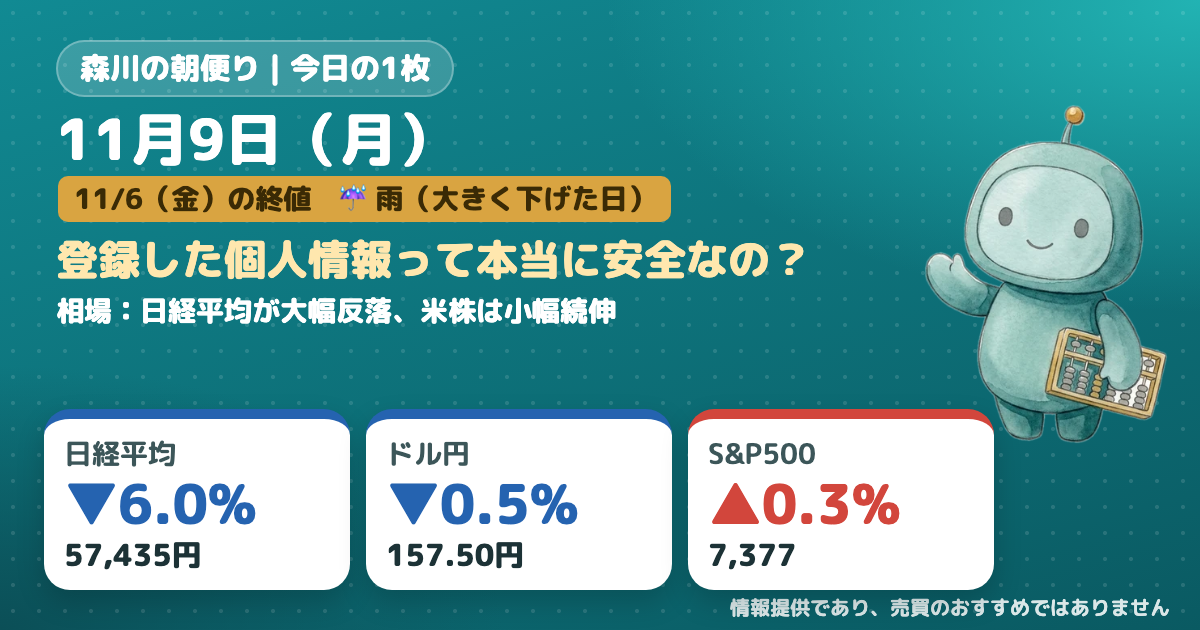
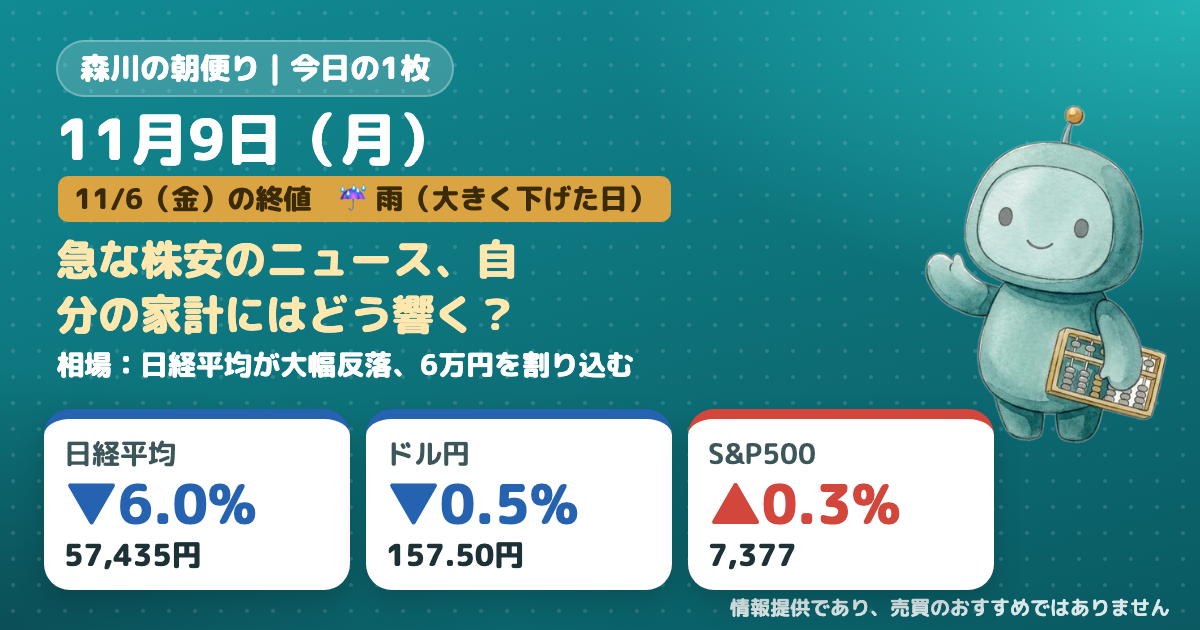
今日の1枚 1109

Changed region(s): [[0.0308, 0.3619, 0.6783, 0.6032]]

diff --git a/1109/index.html b/1109/index.html
@@ -1,4 +1,4 @@
-<!doctype html><html lang="ja"><head><meta charset="utf-8"><meta name="viewport" content="width=device-width,initial-scale=1"><title>森川の朝便り 11月9日（月）</title><meta property="og:title" content="森川の朝便り 11月9日（月）｜日経平均が大幅反落、米株は小幅続伸"><meta property="og:description" content="11/6（金）の終値と、今日のニュース・あわせて読みたい記事・用語をまとめました。ユメカネサロン"><meta property="og:image" content="https://mm738966m-boop.github.io/asa/1109/og.png"><meta property="og:image:width" content="1200"><meta property="og:image:height" content="630"><meta property="og:type" content="article"><meta name="twitter:card" content="summary_large_image"><meta name="robots" content="noindex"><link rel="preconnect" href="https://fonts.googleapis.com"><link rel="preconnect" href="https://fonts.gstatic.com" crossorigin><link href="https://fonts.googleapis.com/css2?family=M+PLUS+Rounded+1c:wght@500;700;800&family=Noto+Sans+JP:wght@500;700&display=swap" rel="stylesheet"><style>
+<!doctype html><html lang="ja"><head><meta charset="utf-8"><meta name="viewport" content="width=device-width,initial-scale=1"><title>森川の朝便り 11月9日（月）</title><meta property="og:title" content="森川の朝便り 11月9日（月）｜日経平均が大幅反落、6万円を割り込む"><meta property="og:description" content="11/6（金）の終値と、今日のニュース・あわせて読みたい記事・用語をまとめました。ユメカネサロン"><meta property="og:image" content="https://mm738966m-boop.github.io/asa/1109/og.png"><meta property="og:image:width" content="1200"><meta property="og:image:height" content="630"><meta property="og:type" content="article"><meta name="twitter:card" content="summary_large_image"><meta name="robots" content="noindex"><link rel="preconnect" href="https://fonts.googleapis.com"><link rel="preconnect" href="https://fonts.gstatic.com" crossorigin><link href="https://fonts.googleapis.com/css2?family=M+PLUS+Rounded+1c:wght@500;700;800&family=Noto+Sans+JP:wght@500;700&display=swap" rel="stylesheet"><style>
 :root{--teal:#0E7C86;--deep:#0A5A62;--ink:#1C3236;--ink2:#3C5659;--soft:#EEF6F7;--line:#D5E4E6;--gold:#A87A1F;--goldfill:#D9A441;--goldbg:#FBF4E3;--bg:#F3F8F8;--up:#D2463C;--upbg:#FDECEA;--down:#2563B0;--downbg:#E3EDF9}
 *{box-sizing:border-box}
 body{margin:0;background:var(--bg);color:var(--ink);font-family:"Noto Sans JP",system-ui,sans-serif;font-size:18px;font-weight:500;line-height:1.8}
@@ -95,7 +95,7 @@ h2:before{content:"";width:6px;height:22px;border-radius:3px;background:var(--go
 .light .lt{font-weight:700;font-size:18px;line-height:1.6;text-wrap:pretty}
 .light .lw{font-size:16px;color:var(--ink2);line-height:1.7}
 .light .more{background:#C9694A}
-</style></head><body><div class="wrap"><header class="hero"><span class="brand"><i></i>森川の朝便り｜今日の1枚</span><div class="date">11月9日（月）</div><div class="chips"><span class="basechip">11/6（金）の終値</span><span class="wx">☔ お天気：雨（大きく下げた日）</span></div><div class="head">日経平均が大幅反落、米株は小幅続伸</div><img class="robo" src="../img/mascot_base.webp" alt=""></header><section class="tiles"><div class="tile down" style="animation-delay:0.00s"><div class="tname">日経平均</div><div class="tval"><span class="num" data-to="57434.7695" data-dec="0">57,435</span><small>円</small></div><div class="pill down">▼6.0%</div><svg class="spark" viewBox="0 0 120 40" aria-hidden="true"><polygon points="3.0,40 3.0,12.3 15.7,14.6 28.3,9.5 41.0,6.3 53.7,3.0 66.3,9.4 79.0,10.4 91.7,14.6 104.3,19.9 117.0,37.0 117.0,40" fill="var(--down)" opacity=".12"/><polyline points="3.0,12.3 15.7,14.6 28.3,9.5 41.0,6.3 53.7,3.0 66.3,9.4 79.0,10.4 91.7,14.6 104.3,19.9 117.0,37.0" fill="none" stroke="var(--down)" stroke-width="2" stroke-linejoin="round" stroke-linecap="round" class="draw"/><circle cx="117.0" cy="37.0" r="3.2" fill="var(--down)"/></svg><div class="sl">直近10日</div></div><div class="tile down" style="animation-delay:0.08s"><div class="tname">ドル円</div><div class="tval"><span class="num" data-to="157.4980" data-dec="2">157.50</span><small>円</small></div><div class="pill down">▼0.5%</div><svg class="spark" viewBox="0 0 120 40" aria-hidden="true"><polygon points="3.0,40 3.0,37.0 15.7,22.5 28.3,12.9 41.0,16.2 53.7,16.8 66.3,19.4 79.0,14.5 91.7,3.0 104.3,5.3 117.0,23.1 117.0,40" fill="var(--down)" opacity=".12"/><polyline points="3.0,37.0 15.7,22.5 28.3,12.9 41.0,16.2 53.7,16.8 66.3,19.4 79.0,14.5 91.7,3.0 104.3,5.3 117.0,23.1" fill="none" stroke="var(--down)" stroke-width="2" stroke-linejoin="round" stroke-linecap="round" class="draw"/><circle cx="117.0" cy="23.1" r="3.2" fill="var(--down)"/></svg><div class="sl">直近10日</div></div><div class="tile up" style="animation-delay:0.16s"><div class="tname">S&amp;P500</div><div class="tval"><span class="num" data-to="7376.8599" data-dec="0">7,377</span><small></small></div><div class="pill up">▲0.3%</div><svg class="spark" viewBox="0 0 120 40" aria-hidden="true"><polygon points="3.0,40 3.0,8.9 15.7,4.9 28.3,3.0 41.0,5.1 53.7,17.3 66.3,20.6 79.0,18.3 91.7,7.8 104.3,37.0 117.0,35.0 117.0,40" fill="var(--up)" opacity=".12"/><polyline points="3.0,8.9 15.7,4.9 28.3,3.0 41.0,5.1 53.7,17.3 66.3,20.6 79.0,18.3 91.7,7.8 104.3,37.0 117.0,35.0" fill="none" stroke="var(--up)" stroke-width="2" stroke-linejoin="round" stroke-linecap="round" class="draw"/><circle cx="117.0" cy="35.0" r="3.2" fill="var(--up)"/></svg><div class="sl">直近10日</div></div></section><p class="howto">▼6.0%のような数字は「前の営業日の終値より何%動いたか」です。<br>赤の▲＝上がった、青の▼＝下がった。<br>S&amp;P500は米国株の代表的な指数です。</p><p class="note">相場は11/6（金）の終値。<br>情報提供であり、売買のおすすめではありません。</p><div class="ans" data-vote="20261104"><div class="ak">前回の「みんなの見立て」答え合わせ</div><div class="aa">11/4の日経平均は<span class="down">▼1.4%</span>で下がりました</div><div class="ac">タップしてくれた方、ありがとうございます。</div></div><div class="quiz" data-ymd="20261109"><span class="qk">みんなの見立て・1タップ</span><div class="qq">11/9（月）の日経平均、あなたの見立ては？</div><div class="qb"><button class="u" data-v="up">▲ 上がる</button><button class="d" data-v="down">▼ 下がる</button></div><div class="qr"><div class="bar u"><i></i><span><em>▲ 上がる</em><b></b></span></div><div class="bar d"><i></i><span><em>▼ 下がる</em><b></b></span></div><div class="qnote">みんながどう見ているかが分かります。答え合わせは次の「今日の1枚」で。</div></div></div><h2>お知らせ</h2><a class="osh" href="https://mm738966m-boop.github.io/fulfull-links/go/?d=20261109&amp;s=a-info&amp;to=https%3A%2F%2Fwww.youtube.com%2Fwatch%3Fv%3Dzg60wbSGYo4"><img src="https://i.ytimg.com/vi/zg60wbSGYo4/hqdefault.jpg" alt="" loading="lazy"><span class="ok">YouTubeを公開しました</span><span class="ot">小さな会社で、AIに任せている6つの仕事｜申込が3日止まった失敗と、真似できる頼み方【Claude Code 実録】</span><span class="ow">fulfullで実際にAIに任せている仕事を、うまくいかなかった話も含めて見せています。</span><span class="more">見てみる<b>→</b></span></a><div class="mine"><span class="av">森</span><div class="who">森川より｜今日読むなら</div><p>相場が荒れた日も、僕は積立の設定は触らない流儀です。気持ちが揺れやすい人は、下の記事で心の構え方を読んでみてください。</p></div><h2>今日のニュース</h2><a class="news" href="https://mm738966m-boop.github.io/fulfull-links/go/?d=20261109&amp;s=a-n1&amp;to=https%3A%2F%2Fnews.google.com%2Frss%2Farticles%2FCBMiaEFVX3lxTE5QLWNTX3hjUUlIQjFySE5tVU5qQ01ZYTN5a2tjMVBfS1hjc0h1UmFSMFJMeVhIcjBVOTJIc09qU0tMNTBQOUQ1cjhfOGkwdFNmcmdwR0pJNnRlR0puQ21MMnpaa0ZrTjBq%3Foc%3D5" style="animation-delay:0.28s"><span class="src">毎日新聞</span><span class="ntitle">個人情報を集めるだけ集め…流出の裏に日本企業の「データ中毒」</span><span class="why"><b>暮らしとの関係</b>便利さと引き換えの登録情報流出は、日頃の防犯や家計管理にも関わってきます。</span><span class="more">記事を読む<b>→</b></span></a><h2>あわせて読みたい</h2><a class="news ff" href="https://mm738966m-boop.github.io/fulfull-links/go/?d=20261109&amp;s=a-ff&amp;to=https%3A%2F%2Ffulfull.jp%2F2026%2F09%2F14%2Ffund-crash-mindset%2F" style="animation-delay:0.36s"><span class="src">fulfull（森川の会社）の記事</span><span class="ntitle">暴落が怖くて投資信託が買えない人のメンタル整え方</span><span class="why"><b>今日のニュースとのつながり</b>急な下落に慌てないよう、自分の気持ちと向き合うヒントがまとまっています。</span><span class="more">記事を読む<b>→</b></span></a><h2>円で見るとこうなる</h2><div class="yen"><div class="yc"><div class="yl">1,000ドルの家電</div><div class="yv">157,498円</div><div class="yd down">前の日より−859円</div></div><div class="yc"><div class="yl">20ドルの海外ランチ</div><div class="yv">3,150円</div><div class="yd down">前の日より−17円</div></div></div><h2>ちょっと一息</h2><a class="light" href="https://mm738966m-boop.github.io/fulfull-links/go/?d=20261109&amp;s=a-n3&amp;to=https%3A%2F%2Fnews.google.com%2Frss%2Farticles%2FCBMiWkFVX3lxTE9VWW9HWXlITm1PMDBtMm5IeXRnUjViQXJiallVckNlbmRNSElrV3dBTUttVWhTTEV0cW1mV0s2YWZrSlhQODZBMGVLOFRLbk9oeFFTTWZGaGpZUQ%3Foc%3D5"><span class="lk">お金以外の話題｜Forbes JAPAN</span><span class="lt">ボイジャー1号が人類史上初の「1光日」に到達、地球から259億キロ 通信途絶からも復旧</span><span class="lw">259億キロ先から電波が届くなんて、想像を超えるスケールで驚きますね。</span><span class="more">読んでみる<b>→</b></span></a><h2>今日の用語</h2><div class="term"><div class="tw">決算</div><p>会社の3か月ごとの成績発表。予想より良ければ株価が上がり、悪ければ下がる。</p><img src="../img/mascot_think.webp" alt=""></div><p class="foot">ユメカネサロン　森川 満章<br>情報提供であり、売買のおすすめではありません。</p></div><script>
+</style></head><body><div class="wrap"><header class="hero"><span class="brand"><i></i>森川の朝便り｜今日の1枚</span><div class="date">11月9日（月）</div><div class="chips"><span class="basechip">11/6（金）の終値</span><span class="wx">☔ お天気：雨（大きく下げた日）</span></div><div class="head">日経平均が大幅反落、6万円を割り込む</div><img class="robo" src="../img/mascot_base.webp" alt=""></header><section class="tiles"><div class="tile down" style="animation-delay:0.00s"><div class="tname">日経平均</div><div class="tval"><span class="num" data-to="57434.7695" data-dec="0">57,435</span><small>円</small></div><div class="pill down">▼6.0%</div><svg class="spark" viewBox="0 0 120 40" aria-hidden="true"><polygon points="3.0,40 3.0,12.3 15.7,14.6 28.3,9.5 41.0,6.3 53.7,3.0 66.3,9.4 79.0,10.4 91.7,14.6 104.3,19.9 117.0,37.0 117.0,40" fill="var(--down)" opacity=".12"/><polyline points="3.0,12.3 15.7,14.6 28.3,9.5 41.0,6.3 53.7,3.0 66.3,9.4 79.0,10.4 91.7,14.6 104.3,19.9 117.0,37.0" fill="none" stroke="var(--down)" stroke-width="2" stroke-linejoin="round" stroke-linecap="round" class="draw"/><circle cx="117.0" cy="37.0" r="3.2" fill="var(--down)"/></svg><div class="sl">直近10日</div></div><div class="tile down" style="animation-delay:0.08s"><div class="tname">ドル円</div><div class="tval"><span class="num" data-to="157.4980" data-dec="2">157.50</span><small>円</small></div><div class="pill down">▼0.5%</div><svg class="spark" viewBox="0 0 120 40" aria-hidden="true"><polygon points="3.0,40 3.0,37.0 15.7,22.5 28.3,12.9 41.0,16.2 53.7,16.8 66.3,19.4 79.0,14.5 91.7,3.0 104.3,5.3 117.0,23.1 117.0,40" fill="var(--down)" opacity=".12"/><polyline points="3.0,37.0 15.7,22.5 28.3,12.9 41.0,16.2 53.7,16.8 66.3,19.4 79.0,14.5 91.7,3.0 104.3,5.3 117.0,23.1" fill="none" stroke="var(--down)" stroke-width="2" stroke-linejoin="round" stroke-linecap="round" class="draw"/><circle cx="117.0" cy="23.1" r="3.2" fill="var(--down)"/></svg><div class="sl">直近10日</div></div><div class="tile up" style="animation-delay:0.16s"><div class="tname">S&amp;P500</div><div class="tval"><span class="num" data-to="7376.8599" data-dec="0">7,377</span><small></small></div><div class="pill up">▲0.3%</div><svg class="spark" viewBox="0 0 120 40" aria-hidden="true"><polygon points="3.0,40 3.0,8.9 15.7,4.9 28.3,3.0 41.0,5.1 53.7,17.3 66.3,20.6 79.0,18.3 91.7,7.8 104.3,37.0 117.0,35.0 117.0,40" fill="var(--up)" opacity=".12"/><polyline points="3.0,8.9 15.7,4.9 28.3,3.0 41.0,5.1 53.7,17.3 66.3,20.6 79.0,18.3 91.7,7.8 104.3,37.0 117.0,35.0" fill="none" stroke="var(--up)" stroke-width="2" stroke-linejoin="round" stroke-linecap="round" class="draw"/><circle cx="117.0" cy="35.0" r="3.2" fill="var(--up)"/></svg><div class="sl">直近10日</div></div></section><p class="howto">▼6.0%のような数字は「前の営業日の終値より何%動いたか」です。<br>赤の▲＝上がった、青の▼＝下がった。<br>S&amp;P500は米国株の代表的な指数です。</p><p class="note">相場は11/6（金）の終値。<br>情報提供であり、売買のおすすめではありません。</p><div class="ans" data-vote="20261104"><div class="ak">前回の「みんなの見立て」答え合わせ</div><div class="aa">11/4の日経平均は<span class="down">▼1.4%</span>で下がりました</div><div class="ac">タップしてくれた方、ありがとうございます。</div></div><div class="quiz" data-ymd="20261109"><span class="qk">みんなの見立て・1タップ</span><div class="qq">11/9（月）の日経平均、あなたの見立ては？</div><div class="qb"><button class="u" data-v="up">▲ 上がる</button><button class="d" data-v="down">▼ 下がる</button></div><div class="qr"><div class="bar u"><i></i><span><em>▲ 上がる</em><b></b></span></div><div class="bar d"><i></i><span><em>▼ 下がる</em><b></b></span></div><div class="qnote">みんながどう見ているかが分かります。答え合わせは次の「今日の1枚」で。</div></div></div><h2>お知らせ</h2><a class="osh" href="https://mm738966m-boop.github.io/fulfull-links/go/?d=20261109&amp;s=a-info&amp;to=https%3A%2F%2Fwww.youtube.com%2Fwatch%3Fv%3Dzg60wbSGYo4"><img src="https://i.ytimg.com/vi/zg60wbSGYo4/hqdefault.jpg" alt="" loading="lazy"><span class="ok">YouTubeを公開しました</span><span class="ot">小さな会社で、AIに任せている6つの仕事｜申込が3日止まった失敗と、真似できる頼み方【Claude Code 実録】</span><span class="ow">fulfullで実際にAIに任せている仕事を、うまくいかなかった話も含めて見せています。</span><span class="more">見てみる<b>→</b></span></a><div class="mine"><span class="av">森</span><div class="who">森川より｜今日読むなら</div><p>相場が荒れても僕は損した日はすぐ忘れるタイプです。下落時の向き合い方が気になる人は下の記事を読んでみてください。</p></div><p class="reason"><b>動いた理由：</b>毎日新聞などによると、日経平均が急落し一時4000円超の下げ幅となりました。</p><h2>今日のニュース</h2><a class="news" href="https://mm738966m-boop.github.io/fulfull-links/go/?d=20261109&amp;s=a-n1&amp;to=https%3A%2F%2Fnews.google.com%2Frss%2Farticles%2FCBMiaEFVX3lxTFBYUW1FY084NEphNkk3WS1HUXZnS3ZGWGw4M1VYbVhUUWlTUm83NGRiRElrZHRLN0JaZjV0TVNubm1qWU9KLXBVTzlRYkRvQjVvMUFfbWd1a09mY201UkdvOWdndEVLM0U2%3Foc%3D5" style="animation-delay:0.28s"><span class="src">毎日新聞</span><span class="ntitle">日経平均急落、6カ月ぶりに6万円割れ 下げ幅一時4000円超</span><span class="why"><b>暮らしとの関係</b>一時4000円超下落し、手元の投資資産の数字が急に減って見えるかもしれません。</span><span class="more">記事を読む<b>→</b></span></a><h2>あわせて読みたい</h2><a class="news ff" href="https://mm738966m-boop.github.io/fulfull-links/go/?d=20261109&amp;s=a-ff&amp;to=https%3A%2F%2Ffulfull.jp%2F2026%2F08%2F10%2Fdollar-cost-averaging%2F" style="animation-delay:0.36s"><span class="src">fulfull（森川の会社）の記事</span><span class="ntitle">ドルコスト平均法とは？積立投資で損を防ぐ仕組みを徹底解説</span><span class="why"><b>今日のニュースとのつながり</b>下落局面で積立投資を続ける仕組みと、長期で損を防ぐ考え方が分かります。</span><span class="more">記事を読む<b>→</b></span></a><h2>円で見るとこうなる</h2><div class="yen"><div class="yc"><div class="yl">1,000ドルの家電</div><div class="yv">157,498円</div><div class="yd down">前の日より−859円</div></div><div class="yc"><div class="yl">20ドルの海外ランチ</div><div class="yv">3,150円</div><div class="yd down">前の日より−17円</div></div></div><h2>ちょっと一息</h2><a class="light" href="https://mm738966m-boop.github.io/fulfull-links/go/?d=20261109&amp;s=a-n3&amp;to=https%3A%2F%2Fnews.google.com%2Frss%2Farticles%2FCBMiWkFVX3lxTE9VWW9HWXlITm1PMDBtMm5IeXRnUjViQXJiallVckNlbmRNSElrV3dBTUttVWhTTEV0cW1mV0s2YWZrSlhQODZBMGVLOFRLbk9oeFFTTWZGaGpZUQ%3Foc%3D5"><span class="lk">お金以外の話題｜Forbes JAPAN</span><span class="lt">ボイジャー1号が人類史上初の「1光日」に到達、地球から259億キロ 通信途絶からも復旧</span><span class="lw">地球から259億キロ離れても通信が戻るって、なんだかすごい話ですね。</span><span class="more">読んでみる<b>→</b></span></a><h2>今日の用語</h2><div class="term"><div class="tw">雇用統計</div><p>毎月第1金曜に出る米国の仕事の数。株・為替が大きく動く“月イチの大イベント”。</p><img src="../img/mascot_think.webp" alt=""></div><p class="foot">ユメカネサロン　森川 満章<br>情報提供であり、売買のおすすめではありません。</p></div><script>
 (function(){
   var TEST=(location.protocol==="file:"||navigator.webdriver);
   try{if(TEST)throw 0;var id=localStorage.getItem("yk_id");if(!id){id=Math.random().toString(36).slice(2,10);localStorage.setItem("yk_id",id)}
